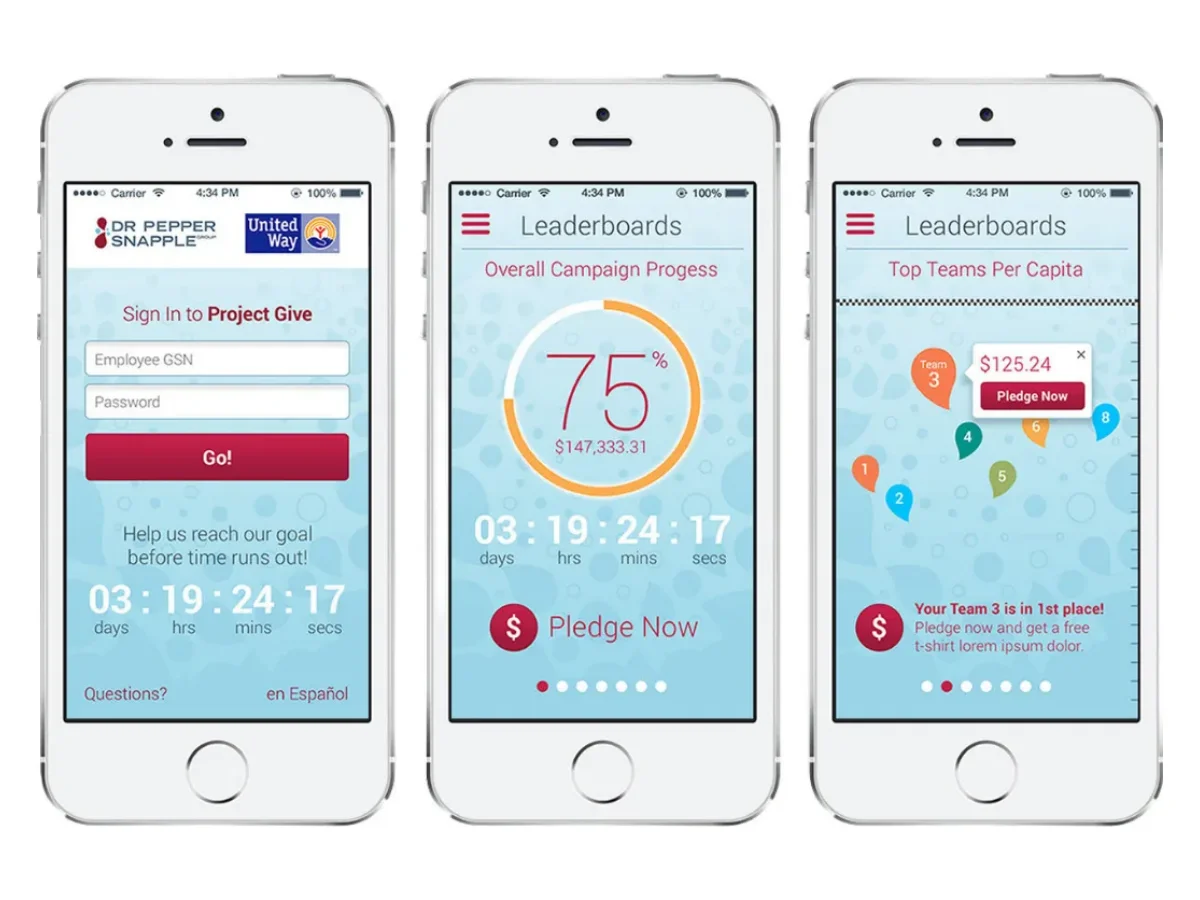
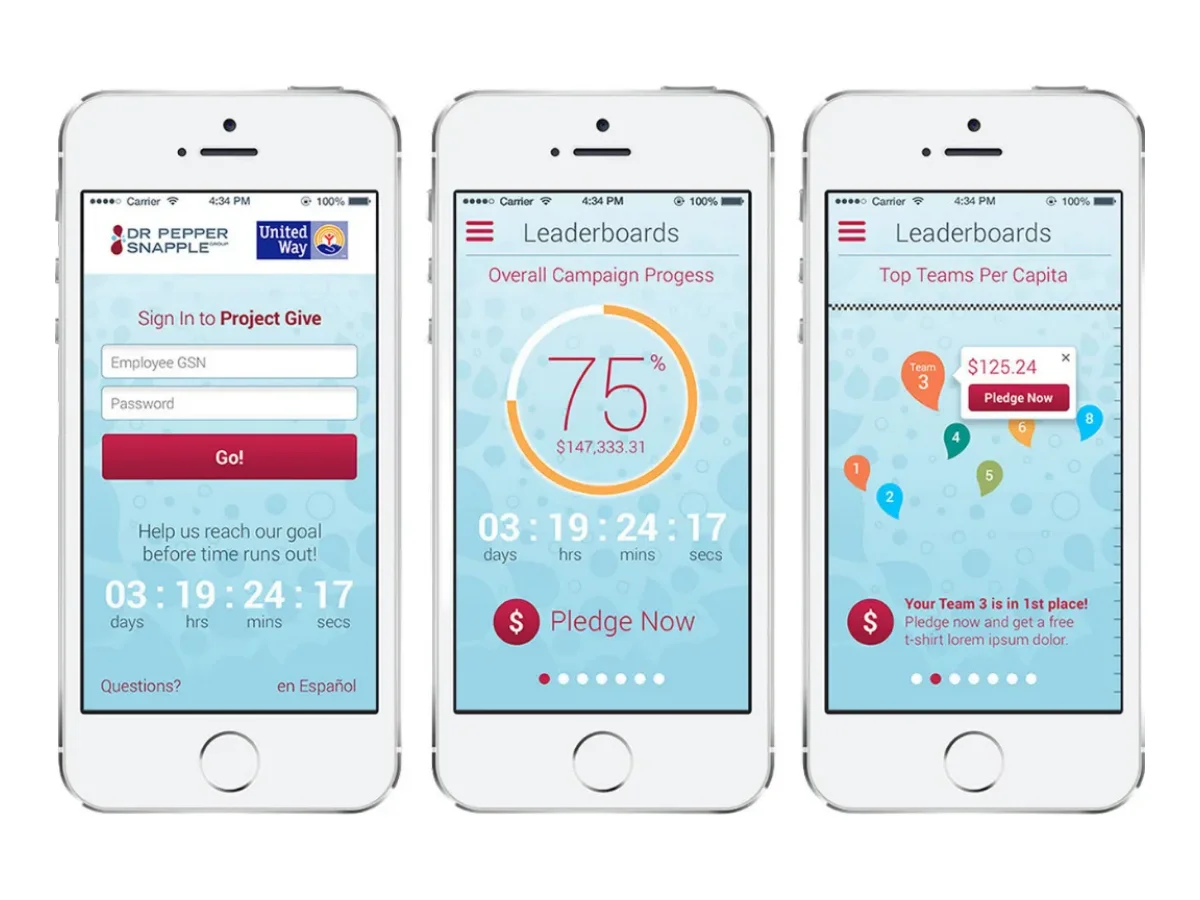
More padding again on the tablet and handset cards
Connect and Dr Pepper Snapple go from a 37px margin to 55: tablet
1089x826 to 1041x790, phones 1126x754 to 1090x729.

Learn to Live and Innovators Studio unchanged.

Changed region(s): [[0.0308, 0.0622, 0.9867, 0.9333]]

diff --git a/index.html b/index.html
@@ -548,7 +548,7 @@
                not a disabled link, so nothing is focusable or hoverable. -->
           <div class="shelf-item is-static reveal">
             <div class="shelf-thumb">
-              <img decoding="async" loading="lazy" src="img/shelf/connect-design-system.webp?v=11" width="1200" height="900"
+              <img decoding="async" loading="lazy" src="img/shelf/connect-design-system.webp?v=12" width="1200" height="900"
                    alt="A large landscape tablet filling the frame with the Connect Design System: the red RBA logo in the top left of the screen, then a full sheet of interface components, buttons, toggles, inputs, tables, sliders, charts and cards in the brand blues, with the seven core palette swatches in a row beneath." />
             </div>
             <h3>Connect design system</h3>
@@ -575,7 +575,7 @@
 
           <a class="shelf-item reveal" href="case-study/enterprise-consulting.html#dr-pepper" aria-label="See the Dr Pepper Snapple fundraising app in the consulting-years case study">
             <div class="shelf-thumb">
-              <img decoding="async" loading="lazy" src="img/shelf/dr-pepper.webp?v=10" width="1200" height="900"
+              <img decoding="async" loading="lazy" src="img/shelf/dr-pepper.webp?v=11" width="1200" height="900"
                    alt="Three white iPhones filling the frame, running the Dr Pepper Snapple United Way app: a Project Give sign-in screen with a countdown, a campaign progress ring at 75 percent, and a team leaderboard." />
             </div>
             <h3>Dr Pepper Snapple fundraising app</h3>
